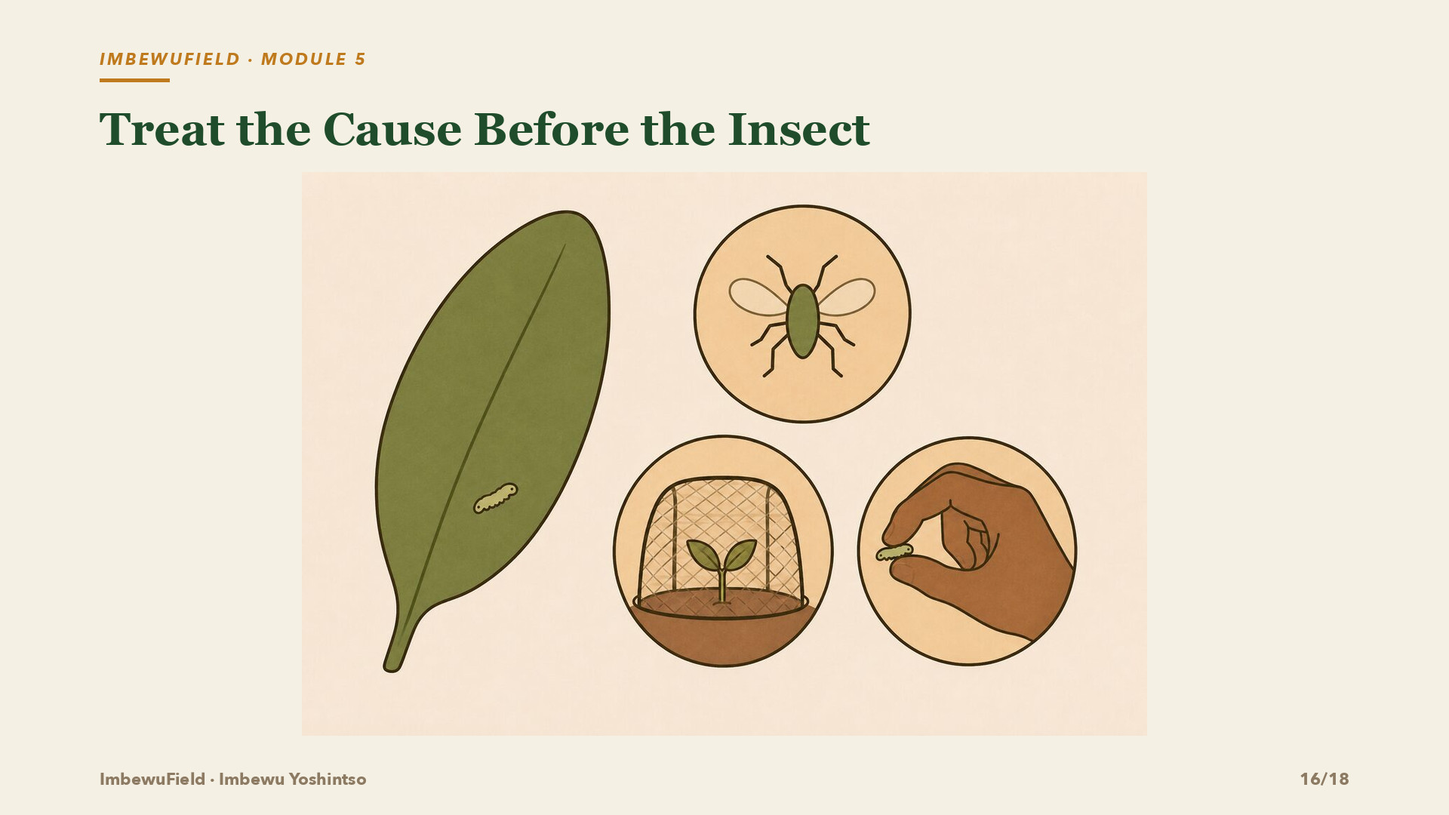
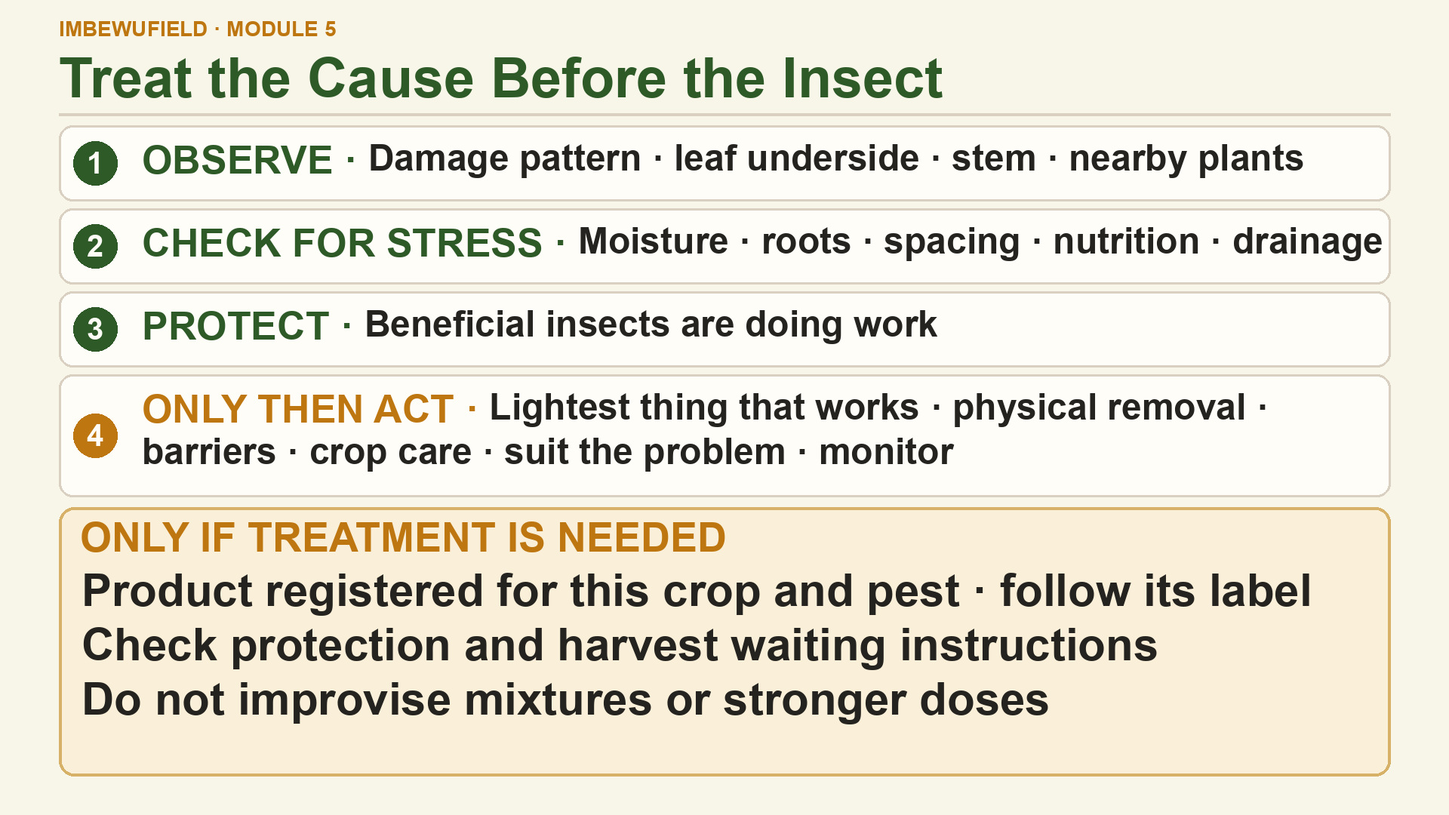
Clarify Vegetables L4 pest decision still

diff --git a/app/sw.js/route.ts b/app/sw.js/route.ts
@@ -676,6 +676,20 @@ async function migrateVegetablesL2ReadableStills() {
   await cache.put(marker, new Response('Readable Vegetables L2 English stills'));
 }
 
+// Slide 16 now presents the existing pest-response order and conditional safeguards at phone width.
+// Retire only that saved English still; the learner chooses when to download the replacement.
+async function migrateVegetablesL4DecisionStill() {
+  const cache = await caches.open(COURSE_CACHE);
+  const marker = '/course-decks/vegetables-staples/en/.l4-slide16-decision-still-20260923';
+  if (await cache.match(marker)) return;
+  for (const request of await cache.keys()) {
+    if (new URL(request.url).pathname === '/course-decks/vegetables-staples/en/slide-16.jpg') {
+      await cache.delete(request);
+    }
+  }
+  await cache.put(marker, new Response('Phone-readable Vegetables L4 decision still'));
+}
+
 // The Market record still now uses phone-size destination labels. A saved pack keeps
 // old bytes at this URL until explicitly cleared; invalidate only this picture so
 // the learner chooses when to download the replacement with their own airtime.
@@ -763,7 +777,7 @@ self.addEventListener('activate', function (event) {
           })
           .map(function (key) { return caches.delete(key); })
       );
-    }).then(migrateGuildNarration).then(migrateStudiesMedia).then(migrateChickenForagingMedia).then(migrateForestLayerMedia).then(migrateSoilObservationMedia).then(migrateForestEstablishmentMedia).then(migrateLandscapeSiteMapNarration).then(migrateForestMulchInfographic).then(migrateForestSheetMulchingMedia).then(migrateVegetableChoiceMedia).then(migrateUnapprovedStudyAnimations).then(migrateBeeHiveAndBlossomMedia).then(migrateGreywaterTeachingMedia).then(migrateWindbreakMedia).then(migrateSoilCoverStills).then(migrateSoilL3ComparisonStill).then(migrateVegetablesL2ReadableStills).then(migrateMarketRecordStill).then(migrateFoodForestLayerKeyStill).then(migrateFoodForestClimateMatchStill).then(migrateFoodForestL3AdjustStill).then(migrateHeldAuthoredStudyAnimations).then(migrateHeldWaterSwaleMedia).then(migrateMarketL2RouteStill).then(migrateMarketCommunityNetworkStill).then(function () {
+    }).then(migrateGuildNarration).then(migrateStudiesMedia).then(migrateChickenForagingMedia).then(migrateForestLayerMedia).then(migrateSoilObservationMedia).then(migrateForestEstablishmentMedia).then(migrateLandscapeSiteMapNarration).then(migrateForestMulchInfographic).then(migrateForestSheetMulchingMedia).then(migrateVegetableChoiceMedia).then(migrateUnapprovedStudyAnimations).then(migrateBeeHiveAndBlossomMedia).then(migrateGreywaterTeachingMedia).then(migrateWindbreakMedia).then(migrateSoilCoverStills).then(migrateSoilL3ComparisonStill).then(migrateVegetablesL2ReadableStills).then(migrateVegetablesL4DecisionStill).then(migrateMarketRecordStill).then(migrateFoodForestLayerKeyStill).then(migrateFoodForestClimateMatchStill).then(migrateFoodForestL3AdjustStill).then(migrateHeldAuthoredStudyAnimations).then(migrateHeldWaterSwaleMedia).then(migrateMarketL2RouteStill).then(migrateMarketCommunityNetworkStill).then(function () {
       // Take control of already-open tabs so this version's fetch handler
       // (and therefore network-first HTML) runs without needing a reload first.
       return self.clients.claim();

diff --git a/tests/studies-media-migration.test.ts b/tests/studies-media-migration.test.ts
@@ -677,3 +677,43 @@ test('a saved greywater diagram with older source labels is retired without clea
   await run({ open: async () => cache }, 'imbewu-course-v1', Response);
   assert.equal(await rows.get(changed[0] + '?saved=1')!.text(), 'new lesson download');
 });
+
+test('a saved Vegetables L4 still is replaced once without clearing audio or neighboring lesson media', async () => {
+  const source = readFileSync(new URL('../app/sw.js/route.ts', import.meta.url), 'utf8');
+  const body = source.match(/async function migrateVegetablesL4DecisionStill\(\) \{([\s\S]*?)\n\}/)?.[1];
+  assert.ok(body);
+  assert.match(source, /then\(migrateVegetablesL4DecisionStill\)/);
+
+  const changed = '/course-decks/vegetables-staples/en/slide-16.jpg';
+  const keep = [
+    '/course-audio/vegetables-staples/en/slide-16.mp3',
+    '/course-decks/vegetables-staples/en/slide-15.jpg',
+    '/course-decks/vegetables-staples/en/slide-17.jpg',
+    '/course-decks/vegetables-staples/zu/slide-16.jpg',
+    '/course-decks/soil-health/en/slide-16.jpg',
+  ];
+  const rows = new Map<string, Response>([
+    [changed, new Response('old english still without query')],
+    [changed + '?saved=1', new Response('old english still')],
+    [changed + '?width=269', new Response('old thumbnail variant')],
+    ...keep.map(path => [path + '?saved=1', new Response('preserved')] as const),
+  ]);
+  const cache = {
+    match: async (key: string) => rows.get(key),
+    keys: async () => [...rows.keys()].map(path => new Request('https://example.com' + path)),
+    delete: async (request: Request) => { const url = new URL(request.url); return rows.delete(url.pathname + url.search); },
+    put: async (key: string, response: Response) => { rows.set(key, response); },
+  };
+  const run = new Function('caches', 'COURSE_CACHE', 'Response', 'return (async () => {' + body + '})()');
+  await run({ open: async () => cache }, 'imbewu-course-v1', Response);
+  assert.equal(rows.has(changed), false);
+  assert.equal(rows.has(changed + '?saved=1'), false);
+  assert.equal(rows.has(changed + '?width=269'), false);
+  for (const path of keep) assert.equal(rows.has(path + '?saved=1'), true, path);
+  assert.equal(rows.has('/course-decks/vegetables-staples/en/.l4-slide16-decision-still-20260923'), true);
+  assert.doesNotMatch(body, /\bfetch\(/, 'the migration must let the learner choose when to download the replacement');
+
+  rows.set(changed + '?saved=1', new Response('replacement still downloaded later'));
+  await run({ open: async () => cache }, 'imbewu-course-v1', Response);
+  assert.equal(await rows.get(changed + '?saved=1')!.text(), 'replacement still downloaded later');
+});

diff --git a/lib/course-asset-sizes.ts b/lib/course-asset-sizes.ts
@@ -3,7 +3,7 @@
 // Every course asset in public/, with its exact size. The offline download states a total before
 // it starts, and tests/offline-pack.test.ts fails if any entry here disagrees with disk.
 //
-// 800 files, 335.4 MB total.
+// 800 files, 335.7 MB total.
 
 export const COURSE_ASSET_SIZES: Readonly<Record<string, number>> = Object.freeze({
   '/course-animations/food-forest/flow-sheet-mulching-closeup.mp4': 6248424,
@@ -725,7 +725,7 @@ export const COURSE_ASSET_SIZES: Readonly<Record<string, number>> = Object.freez
   '/course-decks/vegetables-staples/en/slide-13.jpg': 140196,
   '/course-decks/vegetables-staples/en/slide-14.jpg': 118941,
   '/course-decks/vegetables-staples/en/slide-15.jpg': 728993,
-  '/course-decks/vegetables-staples/en/slide-16.jpg': 182462,
+  '/course-decks/vegetables-staples/en/slide-16.jpg': 443907,
   '/course-decks/vegetables-staples/en/slide-17.jpg': 101251,
   '/course-decks/vegetables-staples/en/slide-18.jpg': 84363,
   '/course-decks/water-harvesting/en/slide-01.jpg': 198842,

diff --git a/docs/media/studies-animation-quality/render-vegetables-l4-slide16-review-v2.py b/docs/media/studies-animation-quality/render-vegetables-l4-slide16-review-v2.py
@@ -1,0 +1,135 @@
+#!/usr/bin/env python3
+"""Render a static, unregistered 269px-fit review still for Vegetables L4."""
+
+from pathlib import Path
+from PIL import Image, ImageDraw, ImageFont
+
+ROOT = Path(__file__).resolve().parents[3]
+OUTPUT = ROOT / 'docs/media/studies-animation-quality/review-candidates/vegetables-l4-slide16-review-v2.png'
+PUBLIC_OUTPUT = ROOT / 'public/course-decks/vegetables-staples/en/slide-16.jpg'
+WIDTH, HEIGHT = 1920, 1080
+
+PAPER = (248, 245, 233)
+CARD = (255, 253, 248)
+INK = (25, 54, 39)
+BODY = (37, 35, 31)
+MUTED = (87, 79, 69)
+GREEN = (45, 90, 39)
+GOLD = (190, 119, 16)
+ALERT = (250, 239, 216)
+BORDER = (217, 208, 193)
+REG = next((path for path in (
+    Path('/System/Library/Fonts/Supplemental/Arial.ttf'),
+    Path('/usr/share/fonts/truetype/dejavu/DejaVuSans.ttf'),
+) if path.exists()), None)
+BOLD = next((path for path in (
+    Path('/System/Library/Fonts/Supplemental/Arial Bold.ttf'),
+    Path('/usr/share/fonts/truetype/dejavu/DejaVuSans-Bold.ttf'),
+) if path.exists()), None)
+
+
+def font(size: int, bold: bool = False) -> ImageFont.FreeTypeFont:
+    path = BOLD if bold else REG
+    if path is None:
+        raise FileNotFoundError('No supported font found for Vegetables L4 review still')
+    return ImageFont.truetype(str(path), size)
+
+
+def wrap(draw: ImageDraw.ImageDraw, text: str, face: ImageFont.FreeTypeFont, width: int) -> list[str]:
+    lines: list[str] = []
+    line = ''
+    for word in text.split():
+        proposal = f'{line} {word}'.strip()
+        if line and draw.textlength(proposal, font=face) > width:
+            lines.append(line)
+            line = word
+        else:
+            line = proposal
+    if line:
+        lines.append(line)
+    return lines
+
+
+def main() -> None:
+    image = Image.new('RGB', (WIDTH, HEIGHT), PAPER)
+    draw = ImageDraw.Draw(image)
+    margin = 78
+
+    draw.text((margin, 22), 'IMBEWUFIELD · MODULE 5', font=font(28, True), fill=GOLD)
+    draw.text((margin, 62), 'Treat the Cause Before the Insect', font=font(74, True), fill=GREEN)
+    draw.line((margin, 151, WIDTH - margin, 151), fill=BORDER, width=4)
+
+    steps = [
+        ('1', 'OBSERVE · ', 'Damage pattern · leaf underside · stem · nearby plants'),
+        ('2', 'CHECK FOR STRESS · ', 'Moisture · roots · spacing · nutrition · drainage'),
+        ('3', 'PROTECT · ', 'Beneficial insects are doing work'),
+        ('4', 'ONLY THEN ACT · ', 'Lightest thing that works · physical removal · barriers · crop care · suit the problem · monitor'),
+    ]
+    top = 166
+    gap = 10
+    label_face = font(52, True)
+    detail_face = font(48, True)
+    body_x = margin + 110
+    prepared = []
+    for number, label, detail in steps:
+        first_width = WIDTH - margin - body_x - draw.textlength(label, font=label_face)
+        body_lines = wrap(draw, detail, detail_face, first_width)
+        if len(body_lines) > 2:
+            raise ValueError(f'{label} requires {len(body_lines)} lines; layout must be reconsidered')
+        prepared.append((number, label, body_lines))
+    row_heights = [100 + max(0, len(lines)-1) * 62 for _, _, lines in prepared]
+    y = top
+
+    for number, label, lines in prepared:
+        row_h = row_heights.pop(0)
+        y1 = y
+        y2 = y1 + row_h
+        draw.rounded_rectangle((margin, y1, WIDTH - margin, y2), radius=18,
+                               fill=CARD, outline=BORDER, width=3)
+        cx, cy, radius = margin + 48, y1 + row_h // 2, 29
+        draw.ellipse((cx-radius, cy-radius, cx+radius, cy+radius),
+                     fill=GOLD if number == '4' else GREEN)
+        number_face = font(40, True)
+        number_box = draw.textbbox((0, 0), number, font=number_face)
+        draw.text((cx-(number_box[2]-number_box[0])/2, cy-(number_box[3]-number_box[1])/2-number_box[1]),
+                  number, font=number_face, fill=(255, 253, 246))
+        text_y = y1 + 16
+        draw.text((body_x, text_y), label, font=label_face,
+                  fill=GOLD if number == '4' else GREEN)
+        label_w = draw.textlength(label, font=label_face)
+        draw.text((body_x + label_w, text_y), lines[0], font=detail_face, fill=BODY)
+        for line in lines[1:]:
+            draw.text((body_x, text_y + 59), line, font=detail_face, fill=BODY)
+        y = y2 + gap
+
+    panel_y = y + 4
+    panel_bottom = 1028
+    draw.rounded_rectangle((margin, panel_y, WIDTH - margin, panel_bottom),
+                           radius=20, fill=ALERT, outline=(216, 177, 104), width=4)
+    draw.text((margin + 28, panel_y + 10), 'ONLY IF TREATMENT IS NEEDED',
+              font=font(54, True), fill=GOLD)
+    safeguards = [
+        'Product registered for this crop and pest · follow its label',
+        'Check protection and harvest waiting instructions',
+        'Do not improvise mixtures or stronger doses',
+    ]
+    safety_face = font(60, True)
+    safety_y = panel_y + 76
+    safety_gap = 72
+    for item in safeguards:
+        lines = wrap(draw, item, safety_face, WIDTH - 2 * margin - 65)
+        if len(lines) != 1:
+            raise ValueError(f'Safeguard does not fit on one prominent line: {item}')
+        draw.text((margin + 30, safety_y), item, font=safety_face, fill=BODY)
+        safety_y += safety_gap
+    if safety_y + 6 > panel_bottom:
+        raise ValueError('Safeguards exceed the available safety panel')
+
+    OUTPUT.parent.mkdir(parents=True, exist_ok=True)
+    image.save(OUTPUT, 'PNG', optimize=True)
+    PUBLIC_OUTPUT.parent.mkdir(parents=True, exist_ok=True)
+    image.save(PUBLIC_OUTPUT, 'JPEG', quality=94, subsampling=0, optimize=True)
+
+
+if __name__ == '__main__':
+    main()

diff --git a/docs/studies-review-2026-09-20/CORE-ENGLISH-LESSON-STATUS.md b/docs/studies-review-2026-09-20/CORE-ENGLISH-LESSON-STATUS.md
@@ -30,9 +30,9 @@
 | `soil-health-l3` — Mulching and Cover Crops: Protecting and Building Soil | 0 / 1 | 23 Sep replacement JPEG deployed and hash/269px fit inspected; fresh authenticated lesson-player and offline-pack checks were not completed after deployment. Flow rain shot is held because pooling dominates and impact contrast is unreadable at phone width ([check](../media/studies-animation-quality/soil-l3-current-lesson-check.md)). | The narrated comparison supports observation, not a measured water-retention result. Protected lesson and narration unchanged. | Complete authenticated player and saved-pack/offline verification of the new slide-14 still; leave Flow held. |
 | **Vegetables and Staple Crops** |||||
 | `vegetables-staples-l1` — Preparing and Planting Your Beds | 1 / 0 | 23 Sep deployed 390px play-to-end and offline-pack check for slide 6 Flow transplant ([current check](../media/studies-animation-quality/vegetables-l1-lesson-check.md)). | Rory accepts v1 but says it reads like a small tree; clip does not establish crop identity and is not a reason for another prompt now. | Retain v1; defer any alternate vegetable-looking shot to a later authorized batch. |
-| `vegetables-staples-l2` — Succession Planting and Intercropping | 0 / 0 | 22 Sep deployed 390px still/audio check completed through slide 11; 23 Sep large-text slide 9/11 stills have a local 269px fit check but no new deployed/offline check yet ([check](../media/studies-animation-quality/vegetables-l2-lesson-check.md)). | IsiZulu draft has a universal hungry-gap statement where English is conditional; English stills do not establish local timing/spacing/harvest. | Verify the revised stills in the deployed learner and saved pack; reconcile isiZulu before localization. No movie is needed for the current lesson. |
+| `vegetables-staples-l2` — Succession Planting and Intercropping | 0 / 0 | 23 Sep revised slides 9/11 and English MP3s loaded in the deployed 390px sample learner, then after an offline reload of its 18.3 MB saved pack; no authenticated account or physical-phone check ([check](../media/studies-animation-quality/vegetables-l2-lesson-check.md)). | IsiZulu draft has a universal hungry-gap statement where English is conditional; English stills do not establish local timing/spacing/harvest. | Retain the larger stills; reconcile isiZulu before localization. No new movie is needed for this lesson. |
 | `vegetables-staples-l3` — Staple Crops: Maize, Beans, and Root Vegetables | 0 / 0 | 22 Sep deployed English player check through slide 14; stills/infographic and audio checked; no registered video ([check](../media/studies-animation-quality/vegetables-l3-lesson-check.md)). | Sweet-potato coverage and local suitability require conditional framing; sources do not supply spacing or yield figures. | Keep figures out; finish the source/claim check before any protected wording change. |
-| `vegetables-staples-l4` — Observe and Manage Pests and Disease | 0 / 1 | 23 Sep current check: slide 16 still/audio loaded offline at 2/2; complete lesson end/reset was not observed ([check](../media/studies-animation-quality/vegetables-l4-lesson-check.md)). | Existing static decision candidate is too small at 269px and remains unregistered; historical movie playback is not current evidence. | Revise the existing static candidate for readable 269px labels, then inspect before any player/cache integration. |
+| `vegetables-staples-l4` — Observe and Manage Pests and Disease | 0 / 1 | Reviewed 1920 × 1080 static JPEG is integrated locally and inspected full-size/at 269 × 151; cache migration and focused test are in place. The 23 Sep deployed/offline check predates this replacement; current-player/offline verification awaits release ([check](../media/studies-animation-quality/vegetables-l4-lesson-check.md)). | Still-only; no video/poster. The static still preserves the existing decision order and treatment safeguards; the earlier code-drawn movie remains held. | Deploy through the root release gate, then verify slide 16 in the 390px player and saved-pack offline path. |
 | **Seeds and Seed Sovereignty — baseline; no rework requested** |||||
 | `seeds-sovereignty-l1` — Why Seed Saving Matters | 4 / 0 | 8 total Seeds registrations are present in current deck; no fresh lesson-level full player review identified for this dashboard. | Baseline is protected from rework in this pass; fluent isiZulu/practitioner/human acceptance is not inferred from old technical records. | Leave unchanged; use existing baseline evidence only, and schedule a fresh check only if a concrete release issue arises. |
 | `seeds-sovereignty-l2` — How to Save Seed: Dry and Wet Methods | 2 / 0 | Current deck maps the corrected dry-process clip to slide 13 and wet-process clip to slide 15; no fresh complete player review identified here. | Baseline; old slide-mapping history is provenance, not current acceptance. | Leave unchanged; do not reopen the old mapping unless a current mismatch is found. |

diff --git a/docs/studies-review-2026-09-20/PROGRAMME-MEDIA-MATRIX.md b/docs/studies-review-2026-09-20/PROGRAMME-MEDIA-MATRIX.md
@@ -19,7 +19,7 @@ Current player state follows `lib/course-deck.ts` and `animationUrls()`. A regis
 | 11 | Food Forest Design · `food-forest-l3` · slide 15 | Watch: Care for a Young Food Forest | Still only ([slide still](../../public/course-decks/food-forest/en/slide-15.jpg)) | — | Authored candidate held outside player; withdrawn public render **removed/archived** 22 Sep. Source filename not enumerated in current reconciliation; see [hold ledger](../media/studies-animation-quality/held-authored-media-2026-09-22.md). The locally authored young-forest tour is held outside the player pending Rory’s visual clearance. |
 | 12 | Food Forest Design · `food-forest-l3` · slide 16 | Prepare a Manageable First Area | Video registered (review pending) | [public/course-animations/food-forest/flow-sheet-mulching-closeup.mp4](../../public/course-animations/food-forest/flow-sheet-mulching-closeup.mp4) | —; not a held slot. |
 | 13 | Vegetables and Staple Crops · `vegetables-staples-l1` · slide 6 | Seed or Seedling? | Video registered; [current deployed L1 check](../media/studies-animation-quality/vegetables-l1-lesson-check.md) | [public/course-animations/vegetables-staples/flow-transplant-root-plug.mp4](../../public/course-animations/vegetables-staples/flow-transplant-root-plug.mp4) | One new x1 silent Flow shot seats the root plug and holds its end frame at 390px, including after an offline reload with English narration. The original method-choice still remains the Watch poster. The older `flow-seed-or-seedling.mp4` never finished planting; the locally drawn comparison remains held. Technical playback is not Rory, learner or practitioner approval. |
-| 14 | Vegetables and Staple Crops · `vegetables-staples-l4` · slide 16 | Treat the Cause Before the Insect | Still only ([slide still](../../public/course-decks/vegetables-staples/en/slide-16.jpg)) | — | [Current deployed L4 check](../media/studies-animation-quality/vegetables-l4-lesson-check.md): slide 16 still and English MP3 loaded offline at 390px; full L4 end/reset unverified in this run. No player MP4/poster. The code-drawn candidate remains held; see [decision-path review](../media/studies-animation-quality/vegetables-pest-decision-path.md). |
+| 14 | Vegetables and Staple Crops · `vegetables-staples-l4` · slide 16 | Treat the Cause Before the Insect | Updated static still ([slide still](../../public/course-decks/vegetables-staples/en/slide-16.jpg)); deployed/player verification pending | — | The reviewed 1920 × 1080 static decision still keeps the existing order and conditional product-label, protection, harvest-waiting and no-improvised-dose safeguards legible at 269 × 151 locally. One-time selective cache invalidation is tested. No player video or poster. Prior deployed/offline evidence predates this image; see [current check](../media/studies-animation-quality/vegetables-l4-lesson-check.md). Code-drawn animation remains held for Rory's visual clearance. |
 | 15 | Soil Health & Composting · `soil-health-l1` · slide 5 | Watch: Read Your Soil | Still only ([slide still](../../public/course-decks/soil-health/en/slide-05.jpg)) | — | The locally authored tour was withdrawn 22 Sep under Rory's visual-clearance rule. A new x1 Flow clod close-up is [held in `docs/` after motion and claim review](../media/studies-animation-quality/soil-l1-current-lesson-check.md); it does not carry the full two-example passage. No L1 video is registered or included in the offline pack. |
 | 16 | Soil Health & Composting · `soil-health-l2` · slide 10 | Watch: Build the Compost Heap | Video registered; [English technical/source check](../media/studies-animation-quality/soil-l2-current-lesson-check.md) | [public/course-animations/soil-health/flow-build-compost-heap.mp4](../../public/course-animations/soil-health/flow-build-compost-heap.mp4) | Existing Flow shot shows setup only, not moisture, readiness or sanitation; played offline at 390px. Human/practitioner review open. |
 | 17 | Soil Health & Composting · `soil-health-l2` · slide 11 | Balance Browns and Greens | Video registered; [English technical/source check](../media/studies-animation-quality/soil-l2-current-lesson-check.md) | [public/course-animations/soil-health/flow-compost-materials.mp4](../../public/course-animations/soil-health/flow-compost-materials.mp4) | Existing Flow shot shows one greens addition; played offline at 390px. One overcertain quiz rationale awaits authorised protected edit. |

diff --git a/docs/media/studies-animation-quality/COVERAGE.md b/docs/media/studies-animation-quality/COVERAGE.md
@@ -77,7 +77,7 @@ physical-mechanism review; neither is a reason to place another order.
 | 11 | Food Forest Design | food-forest-l3 | 15 | Watch: Care for a Young Food Forest | — | Existing still only. The locally authored young-forest tour is held outside the player pending Rory’s visual clearance. |
 | 12 | Food Forest Design | food-forest-l3 | 16 | Prepare a Manageable First Area | `flow-sheet-mulching-closeup` | New Flow close-up candidate: gloved hands physically spread wood chips above cardboard; an exposed cardboard section keeps the layer order visible at phone size. The older wide Flow film ends before that action, while the authored composite awaits Rory's explicit SVG/code-drawn approval. This is a preview candidate, not farmer or isiZulu acceptance; see `food-forest-flow-mulch-closeup.md`. |
 | 13 | Vegetables and Staple Crops | vegetables-staples-l1 | 6 | Seed or Seedling? | `flow-transplant-root-plug` | [Current deployed L1 check](vegetables-l1-lesson-check.md): new eight-second silent Flow transplant completes the nursery plug seating and plays at 390px from the 18.1 MB saved offline pack with English MP3. The existing two-method still is its Watch poster. The older unfinished Flow clip and unapproved code-drawn comparison remain held. One x1 prompt used 100 displayed credits. |
-| 14 | Vegetables and Staple Crops | vegetables-staples-l4 | 16 | Treat the Cause Before the Insect | — | [Current deployed L4 check](vegetables-l4-lesson-check.md): still and English MP3 loaded offline at 390px from the 11.3 MB pack; no player video. Full L4 end/reset was not checked in this run. The code-drawn decision sequence remains held for Rory's visual decision. |
+| 14 | Vegetables and Staple Crops | vegetables-staples-l4 | 16 | Treat the Cause Before the Insect | — | The public-path JPEG is the reviewed static decision visual; one-time selective cache migration and focused preservation/idempotence test are added. Full-size and 269 × 151 fits were inspected locally. No video is registered. The 23 Sep deployed/offline check below predates this replacement; current player and saved-pack verification remain pending. Code-drawn motion remains held for Rory's visual clearance. |
 | 15 | Soil Health & Composting | soil-health-l1 | 5 | Watch: Read Your Soil | — | Existing split still only. A [one-output Flow hand-action candidate](soil-l1-current-lesson-check.md) was inspected and held: it shows one clod rather than the narrated two-example, multi-clue comparison, and its hand/representation quality needs review. The prior locally authored tour remains held under Rory's visual-clearance rule. |
 | 16 | Soil Health & Composting | soil-health-l2 | 10 | Watch: Build the Compost Heap | `flow-build-compost-heap` | [Current L2 check](soil-l2-current-lesson-check.md): full-motion and 390px deployed playback, including the saved offline pack. A Black African farmer places dry leaves and straw over fresh greens. Setup only; moisture, air, decomposition, readiness and sanitation are not shown. Rory, practitioner, learner and isiZulu review remain open. |
 | 17 | Soil Health & Composting | soil-health-l2 | 11 | Balance Browns and Greens | `flow-compost-materials` | Retain after full-motion and offline 390px review: a Black African farmer adds fresh greens, but moisture/air checks, turning and finished compost are not shown. The [L2 check](soil-l2-current-lesson-check.md) also holds one overcertain quiz rationale for an authorised protected edit. |

diff --git a/docs/media/studies-animation-quality/vegetables-l4-lesson-check.md b/docs/media/studies-animation-quality/vegetables-l4-lesson-check.md
@@ -1,6 +1,40 @@
 # Vegetables and Staple Crops lesson 4 — Observe and Manage Pests and Disease
 
-## Current deployed English check — 23 September 2026
+## Static English slide-16 revision — 23 September 2026 (not yet deployed)
+
+The English slide-16 JPEG now uses the reviewed static decision visual from
+[`render-vegetables-l4-slide16-review-v2.py`](render-vegetables-l4-slide16-review-v2.py).
+The public-path file is 1920 × 1080; SHA-256
[1 lines of base64/hex data omitted]
+size 443,907 bytes. Its reviewed 1920 × 1080 source PNG remains under
+[`review-candidates/`](review-candidates/vegetables-l4-slide16-review-v2.png)
+with SHA-256
[1 lines of base64/hex data omitted]
+Both the full-size JPEG and an exact 269 × 151 proportional JPEG preview were
+inspected. The ordered sequence and all conditional safeguards are visible at
+that fit: observe damage; check moisture, roots, spacing, nutrition and
+drainage; protect beneficial insects; only then act and monitor; if treatment
+is needed, use a product registered for this crop and pest, follow its label,
+check protection and harvest waiting instructions, and do not improvise
+mixtures or stronger doses. This reuses the existing slide, lesson and source
+packet concepts and adds no diagnosis, pest/crop/chemical, number or species.
+The protected lesson, quiz, narration and audio are unchanged. No video or
+poster is registered.
+
+The service worker now has a one-time selective migration for the old English
+slide-16 still URL. It removes only cached requests whose pathname is exactly
+`/course-decks/vegetables-staples/en/slide-16.jpg` (including query variants),
+then records its marker; it does not fetch the replacement automatically. The
+focused migration test checks preservation of English audio and neighboring
+lesson assets and idempotence. The regenerated asset-size manifest includes the
+new JPEG.
+
+This is local asset and cache-code review only. The revised still has not yet
+been checked in the deployed learner player or a saved-pack offline reload; the
+earlier playback notes below describe the pre-revision still. Rory, learner,
+practitioner, fluent-language and field acceptance are not inferred.
+
+## Deployed English check — 23 September 2026 (pre-revision still)
 
 The stable 390 × 844 Student preview now displays L4 as two still-and-English
 audio slides with no video element. After the 11.3 MB Vegetables module pack
@@ -19,10 +53,11 @@ evidence, not a claim of Rory, physical-phone, learner, practitioner or fluent
 isiZulu acceptance. No new Flow request, protected teaching, species, figure
 or learner media change was made. Farm Finance is excluded.
 
-## Static decision candidate held — 23 September 2026
+## Earlier static decision candidate hold — 23 September 2026 (before v2)
 
-The [new static review candidate](review-candidates/vegetables-l4-slide16-decision-candidate.jpg)
-places the existing four steps in order and retains the current illustration's
+The superseded first static review candidate (not the current public still) is
+[preserved here](review-candidates/vegetables-l4-slide16-decision-candidate.jpg).
+It placed the existing four steps in order and retained the current illustration's
 leaf, helpful-insect, barrier and hand-removal symbols. It also keeps the
 conditional product-registration, label, protection, harvest-waiting and
 no-improvisation safeguards. The deterministic

diff --git a/docs/studies-review-2026-09-20/ACTIVE-CONTINUATION.md b/docs/studies-review-2026-09-20/ACTIVE-CONTINUATION.md
@@ -1,5 +1,17 @@
 # Active Studies continuation — 22 September 2026
 
+## Vegetables and Staples L4 static decision still (23 September)
+
+The English slide-16 still now presents the existing four-step pest-response
+order and keeps product registration, label, protection, harvest waiting and
+no-improvised-dose cautions on the same image. The public JPEG was inspected
+full-size and at the 269px learner-image fit. The [L4 check](../media/studies-animation-quality/vegetables-l4-lesson-check.md)
+records its exact hash, source limits and selective cache replacement. The
+text-heavy safety detail also remains in the unchanged English narration and
+transcript. Exact-head CI, preview player and offline pack checks await this
+batch's push. No new Flow credit, code-drawn animation, protected teaching,
+isiZulu or Finance work was used.
+
 ## Vegetables and Staples L2 still clarity (23 September)
 
 Slides 9 and 11 now reflow their existing English titles and statements into
@@ -8,8 +20,14 @@ unchanged. Both replacement JPEGs were inspected at full size and the player's
 269px image width. A one-time cache marker removes only the former English
 slide-9/11 stills. The [L2 check](../media/studies-animation-quality/vegetables-l2-lesson-check.md)
 records hashes and the local phone-fit limit. Full local typecheck, tests and
-whitespace checks passed; exact-head CI, preview player and offline pack
-verification are pending the batch push. No Flow credits, SVG/code motion,
+whitespace checks passed. Exact-head `test` and `rules` passed for `55364ff2`,
+preview run `35817316741` passed, `/api/build-info` reported `55364ff`, and
+both deployed JPEGs matched the local hashes. A real browser at 390px opened
+each direct JPEG with no clipping. The deployed `/samples` Student lesson then
+displayed slides 9/11 and advanced their English audio at 390px. Its 18.3 MB
+Vegetables pack reported On this phone; after an offline browser reload, both
+revised JPEGs and MP3s loaded and playback advanced. An authenticated account,
+physical phone and full end/reset were not checked. No Flow credits, SVG/code motion,
 isiZulu edits or Farm Finance work were used.
 
 ## Soil Health L3 static comparison release (23 September)

diff --git a/docs/media/studies-animation-quality/vegetables-l2-lesson-check.md b/docs/media/studies-animation-quality/vegetables-l2-lesson-check.md
@@ -30,8 +30,21 @@ slide 11 is 1920 × 1080, 261,180 bytes, SHA-256
 offline size manifest was regenerated. A one-time worker migration clears only
 the previous English slide 9 and 11 stills, including query variants, while
 preserving all other saved lesson media; learners choose when to download the
-replacements. No post-deploy or offline-pack check has yet been made against
-these new files.
+replacements. Exact-head `test` and `rules` passed for `55364ff2`; preview run
+`35817316741` passed and `/api/build-info` reported `55364ff`. Both deployed
+JPEGs matched the local SHA-256 values above. In a real browser at a 390px
+viewport, each direct image opened and the larger text fitted without clipping.
+
+The public `/samples` Student route then opened this exact deployed L2 lesson
+at 390 × 844. Its four-slide Watch and listen player displayed revised slides
+9 and 11 at 2/4 and 4/4, with English audio advancing and no media error.
+The Vegetables pack reported **On this phone · 18.3 MB**. With browser network
+disabled, a reload kept the sample Student shell and saved-pack status; slide
+9 and slide 11 each displayed the revised 1920px JPEG, and their MP3 elements
+reached `readyState=4` with playback advancing and no error. Network access
+and the test viewport were restored afterward. This is a deployed sample-mode
+browser/offline technical check, not an authenticated learner account, physical
+phone, full end/reset playback or Rory/learner/practitioner acceptance.
 
 The English body and two quizzes retain the safeguards that a sequence of
 sowings **may** reduce risk but cannot guarantee a harvest, that the first
